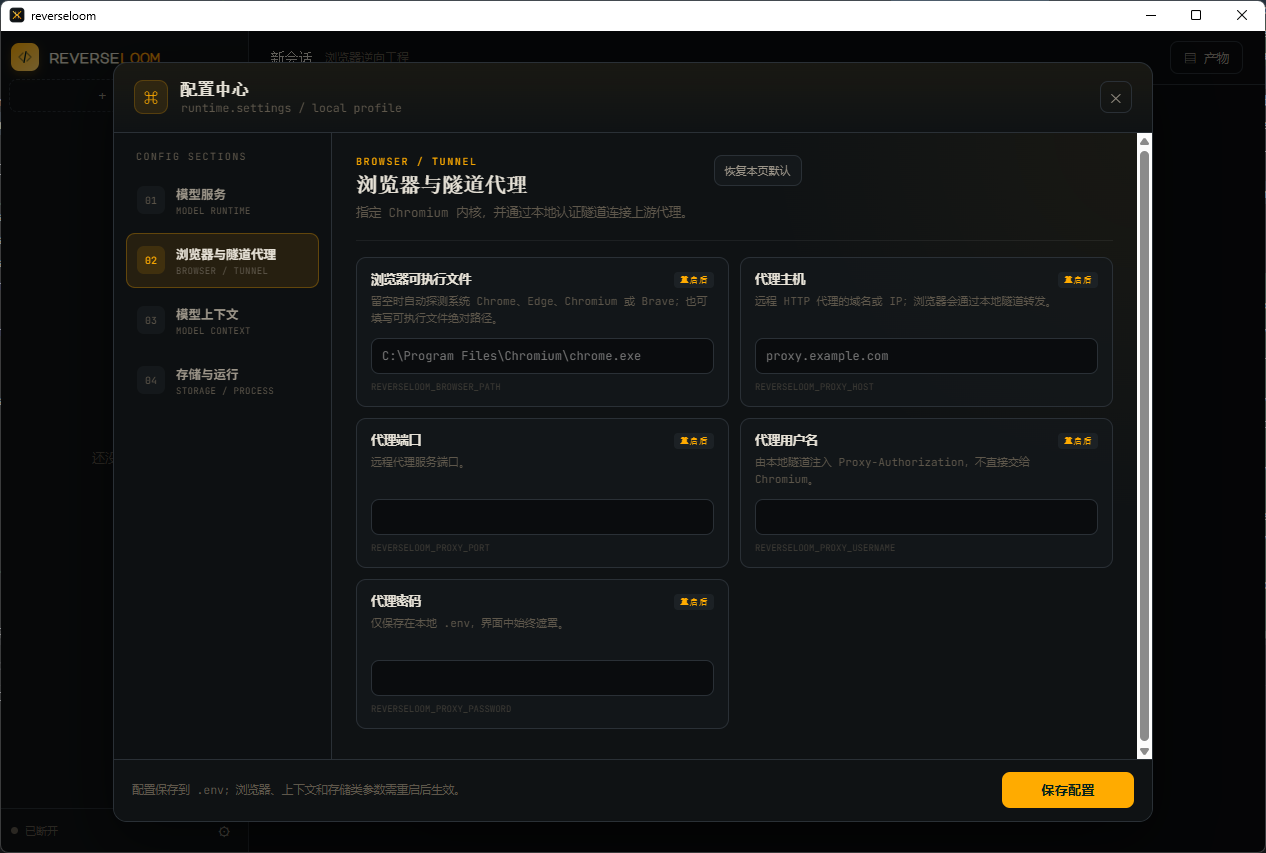
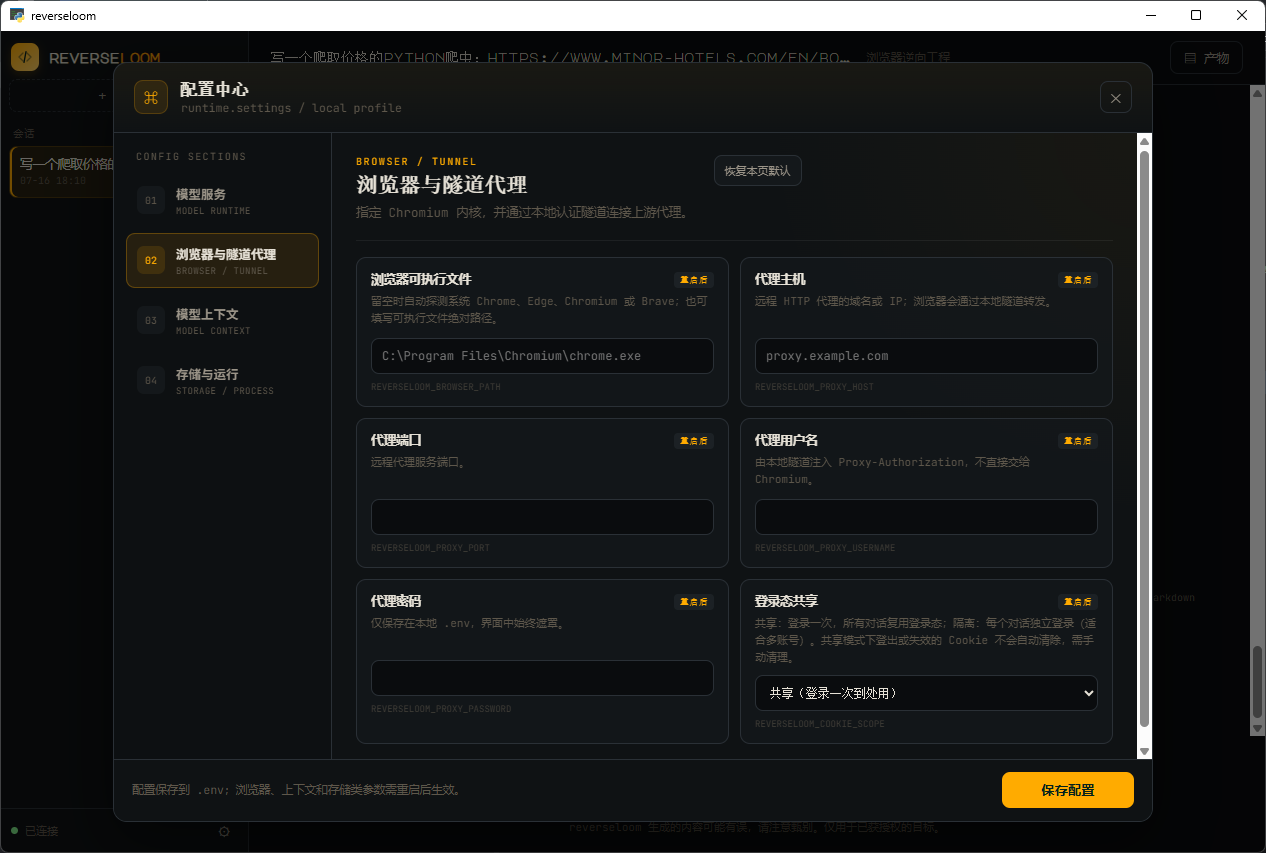
feat(browser): 实现浏览器会话间的Cookie登录态共享控制

diff --git a/src/reverseloom/runtime/config.py b/src/reverseloom/runtime/config.py
@@ -9,6 +9,20 @@ from reverseloom.runtime.paths import default_db_path, default_session_dir
 # isolated per conversation.
 LOCAL_USER_ID: str = "local"
 
+# Cookie/login-state sharing across conversations.
+COOKIE_SCOPE: str = os.environ.get("REVERSELOOM_COOKIE_SCOPE", "shared").strip().lower()
+
+
+def cookie_user_id(session_id: str) -> str:
+    """Resolve the cookie-store identity for a session, honoring COOKIE_SCOPE.
+
+    shared  -> LOCAL_USER_ID (one store for all conversations)
+    isolated-> the session_id (a per-conversation store)
+    """
+    if COOKIE_SCOPE == "isolated":
+        return session_id
+    return LOCAL_USER_ID
+
 # Root directory for per-session browser profiles, identities, and artifacts.
 SESSION_BASE_DIR: str = os.path.abspath(str(default_session_dir()))
 

diff --git a/src/reverseloom/browser/observer.py b/src/reverseloom/browser/observer.py
@@ -16,6 +16,7 @@ from langchain_core.runnables.config import RunnableConfig
 
 from reverseloom.browser.browser_manager import browser_manager
 from reverseloom.browser.browser_snapshot import capture_browser_snapshot
+from reverseloom.runtime import config as config_module
 
 # Reverse-engineering tools that make the observer include debugger state.
 _DEBUGGER_TOOL_NAMES = {
@@ -102,7 +103,14 @@ def create_browser_observer_node(*, tools: List[Any]):
 
     async def browser_observer_node(state: Dict[str, Any], config: RunnableConfig) -> Dict[str, Any]:
         session_id = str(state.get("session_id") or "default")
-        user_id = str((config or {}).get("configurable", {}).get("user_id") or session_id)
+        # user_id is injected under configurable.runtime_context (see server.py)
+        configurable = (config or {}).get("configurable", {}) or {}
+        runtime_context = configurable.get("runtime_context", {}) or {}
+        user_id = str(
+            runtime_context.get("user_id")
+            or configurable.get("user_id")
+            or config_module.cookie_user_id(session_id)
+        )
         logging.info(
             "[BrowserObserverNode] Capturing state for session: %s (include_debugger=%s)",
             session_id, include_debugger,

diff --git a/src/reverseloom/browser/browser_manager.py b/src/reverseloom/browser/browser_manager.py
@@ -4,7 +4,7 @@ import os
 from typing import Dict, Any, Optional, List
 from patchright.async_api import async_playwright, Page, BrowserContext, Playwright, ProxySettings
 
-from reverseloom.runtime.config import SESSION_BASE_DIR, BROWSER_EXECUTABLE_PATH, UPSTREAM_PROXY_URL
+from reverseloom.runtime.config import SESSION_BASE_DIR, BROWSER_EXECUTABLE_PATH, UPSTREAM_PROXY_URL, cookie_user_id
 from reverseloom.browser.discovery import resolve_browser_executable
 from reverseloom.browser.fingerprint import FingerprintManager
 from reverseloom.browser.proxy import ProxyManager
@@ -54,8 +54,9 @@ class BrowserManager:
         if not self.playwright:
             await self.init_browser()
 
-        # 1. Fingerprint generation is isolated per conversation.
-        user_id = user_id or session_id
+        # 1. Fingerprint generation is isolated per conversation. Cookie identity
+        # follows COOKIE_SCOPE when the caller didn't pass one explicitly.
+        user_id = user_id or cookie_user_id(session_id)
         fingerprint = FingerprintManager.load_session_state(session_id)
         if fingerprint is None:
             probe_proxy = UPSTREAM_PROXY_URL or None

diff --git a/src/reverseloom/tools/browser/automation.py b/src/reverseloom/tools/browser/automation.py
@@ -10,6 +10,7 @@ from graphloom import StandardThoughtInput
 from langchain_core.tools import tool
 from reverseloom.browser.browser_manager import browser_manager
 from reverseloom.browser.element_geometry import get_center as _element_center
+from reverseloom.runtime import config as config_module
 from reverseloom.tools.browser.assistance import request_user_interaction
 from reverseloom.tools.browser.result_handler import handle_tool_result
 from reverseloom.browser.element_mapping_service import element_mapping_service
@@ -110,7 +111,10 @@ async def reset_browser_state(
     headers, and AST logs are always reset so the next observation is clean.
     """
     session_id = kwargs.get("session_id")
-    user_id = str(kwargs.get("runtime_context", {}).get("user_id") or session_id)
+    user_id = str(
+        kwargs.get("runtime_context", {}).get("user_id")
+        or config_module.cookie_user_id(str(session_id))
+    )
 
     async def _action():
         if new_fingerprint:

diff --git a/src/reverseloom/web/server.py b/src/reverseloom/web/server.py
@@ -511,7 +511,7 @@ def create_app() -> FastAPI:
                         "artifact_dir": artifact_directory,
                         "artifact_base_dir": artifact_directory,
                         "session_id": run_session_id,
-                        "user_id": config.LOCAL_USER_ID,
+                        "user_id": config.cookie_user_id(run_session_id),
                     },
                 },
             }

diff --git a/src/reverseloom/runtime/settings.py b/src/reverseloom/runtime/settings.py
@@ -77,6 +77,7 @@ SETTINGS_GROUPS = [
             _field("REVERSELOOM_PROXY_PORT", "代理端口", "远程代理服务端口。", field_type="number", minimum=1, maximum=65535, step=1),
             _field("REVERSELOOM_PROXY_USERNAME", "代理用户名", "由本地隧道注入 Proxy-Authorization，不直接交给 Chromium。"),
             _field("REVERSELOOM_PROXY_PASSWORD", "代理密码", "仅保存在本地 .env，界面中始终遮罩。", field_type="password", secret=True),
+            _field("REVERSELOOM_COOKIE_SCOPE", "登录态共享", "共享：登录一次，所有对话复用登录态；隔离：每个对话独立登录（适合多账号）。共享模式下登出或失效的 Cookie 不会自动清除，需手动清理。", field_type="select", default="shared", options=[{"value": "shared", "label": "共享（登录一次到处用）"}, {"value": "isolated", "label": "隔离（每对话独立登录）"}]),
         ],
     },
     {

diff --git a/README.md b/README.md
@@ -15,7 +15,7 @@
 [![License](https://img.shields.io/badge/license-Apache%202.0-success)](LICENSE)
 ![Status](https://img.shields.io/badge/status-alpha-orange)
 
-[![Download Windows EXE](https://img.shields.io/badge/⬇%20Download-Windows%20EXE-2ea44f?style=for-the-badge)](https://github.com/KuiChi-x/reverseloom/releases)
+[![Download for Windows](https://img.shields.io/badge/⬇%20Download-Windows%20v1.0.0-2ea44f?style=for-the-badge)](https://github.com/KuiChi-x/reverseloom/releases/download/1.0.0/reverseloom_win.zip)
 
 [中文](README.zh-CN.md) · **English** · [Three walls](#three-walls) · [Full power](#full-power) · [Quick start](#quick-start) · [Capabilities](#capabilities)
 
@@ -23,9 +23,7 @@
 
 <div align="center">
 
-<!-- 📹 Record a demo, save it to docs/demo.gif, and uncomment the next line to replace the static screenshot below -->
-<!-- <img src="docs/demo.gif" alt="reverseloom demo" width="820" /> -->
-<img src="docs/image/homepage.png" alt="reverseloom desktop UI" width="820" />
+<img src="docs/image/demo.gif" alt="reverseloom demo" width="820" />
 
 _Type one line in the desktop UI. Watch it reason, drive the browser, set breakpoints, reproduce the algorithm, and produce a crawler — live on the right._
 
@@ -93,12 +91,12 @@ Two ways — pick one. First, the honest prerequisites so nothing fails silently
 - 💡 For full "any site lets you in" anti-detection, also install [kc-browser](https://github.com/KuiChi-x/kc-browser) — see [Full power](#full-power).
 - 🐍 The Windows EXE ships its own Python runtime (with `curl_cffi` and the crawler dependencies), so the crawlers it generates run via `run_shell` with zero extra setup. On macOS you still need a callable system `python3` for that.
 
-### Option A: download the EXE, run it (Windows, try this first)
+### Option A: download, unzip, run (Windows, try this first)
 
 No Python, no environment setup.
 
-1. Grab the latest `reverseloom-win.exe` from [**Releases**](https://github.com/KuiChi-x/reverseloom/releases);
-2. Double-click — a native desktop window opens;
+1. Download [**reverseloom_win.zip (v1.0.0)**](https://github.com/KuiChi-x/reverseloom/releases/download/1.0.0/reverseloom_win.zip);
+2. Unzip and double-click `reverseloom.exe` inside — a native desktop window opens;
 3. In **Settings → Model** fill in your model's `BASE_URL` / `API Key` / `MODEL` (see [Configure](#configure)) and save.
 
 > Three steps, chatting within 3 minutes. To scrape sites with heavy bot detection, wire up kc-browser per [Full power](#full-power).
@@ -159,6 +157,10 @@ Browser and proxy (optional, also editable in the UI's Settings):
 ## 🛠️ Capabilities (30+ tools)
 
 Browser automation and JS reverse-engineering are the two mainstays; visual locating, file/shell, and progressive skills are auxiliary.
+
+<div align="center"><img src="docs/image/browser_task.gif" alt="reverseloom browser task demo" width="820" /></div>
+
+<p align="center"><sub>Running a task autonomously as a browser agent: navigate, click, fill forms, scrape across tabs.</sub></p>
 
 <details>
 <summary><b>🌐 Browser automation (primary)</b></summary>